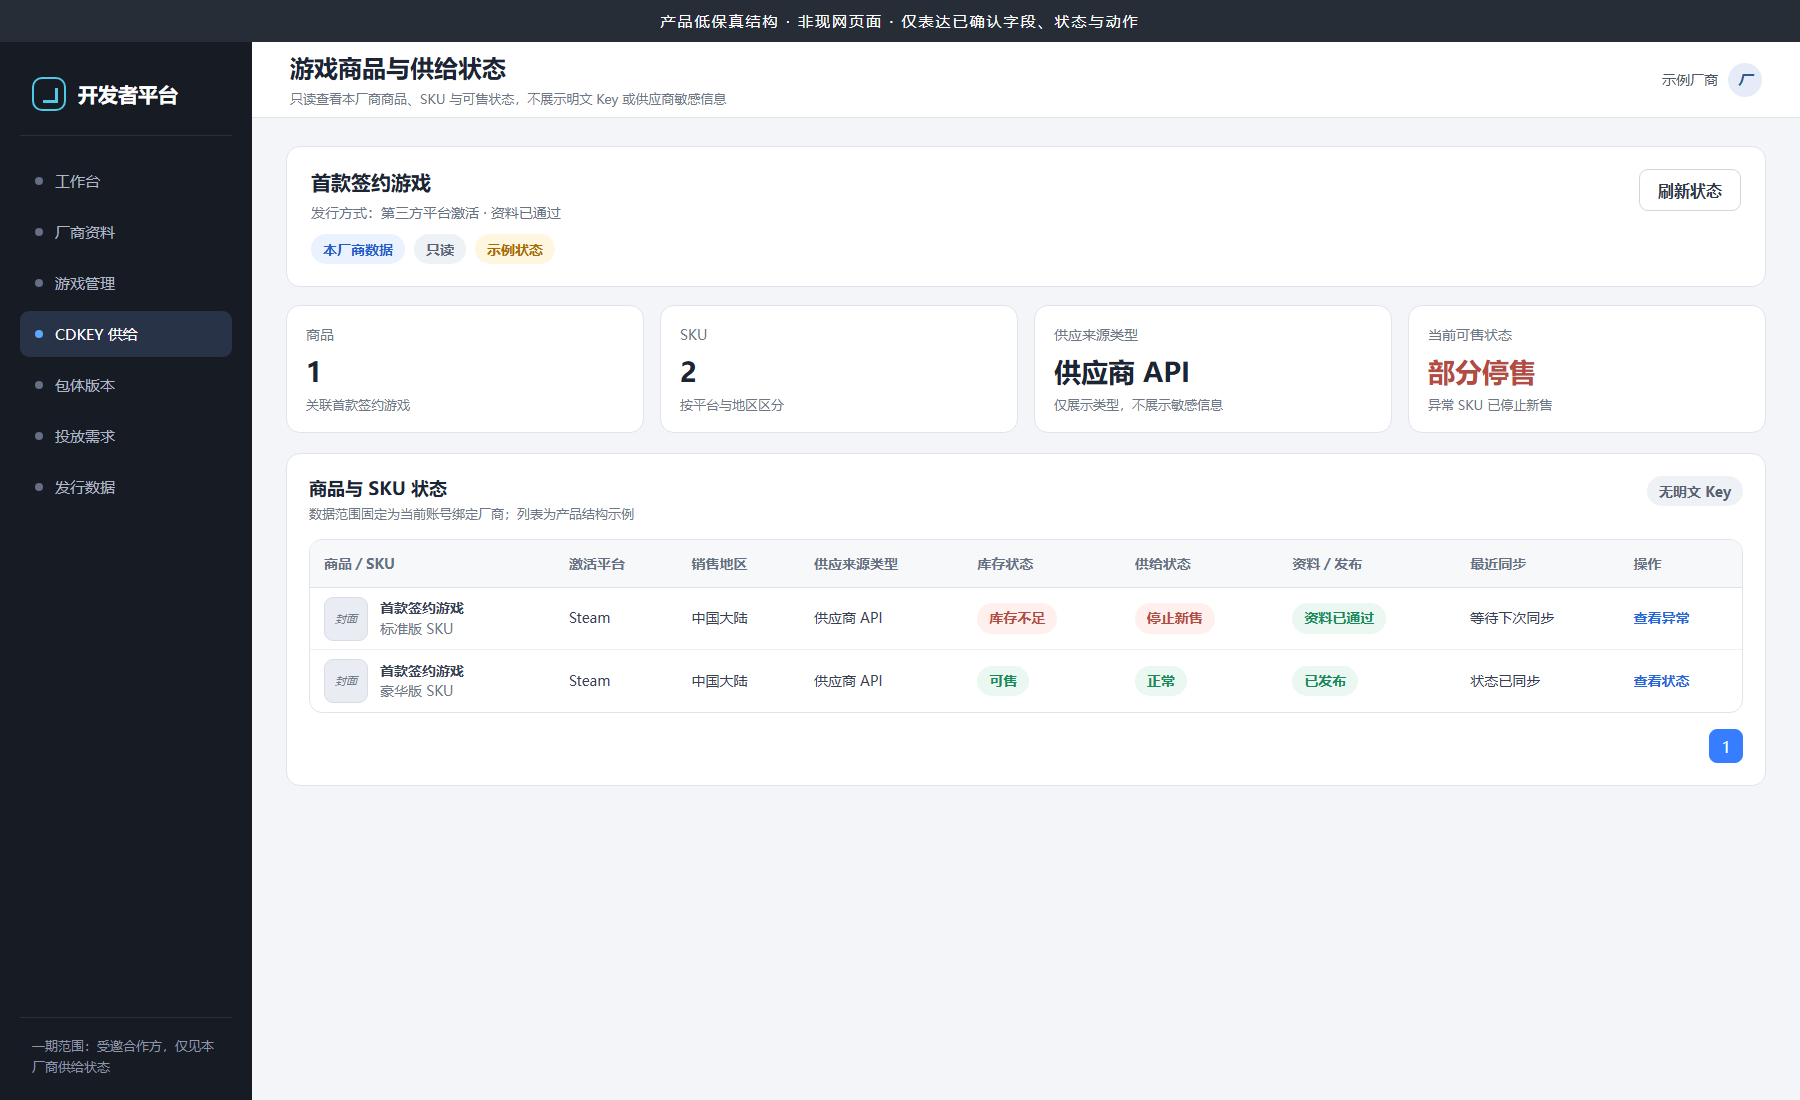
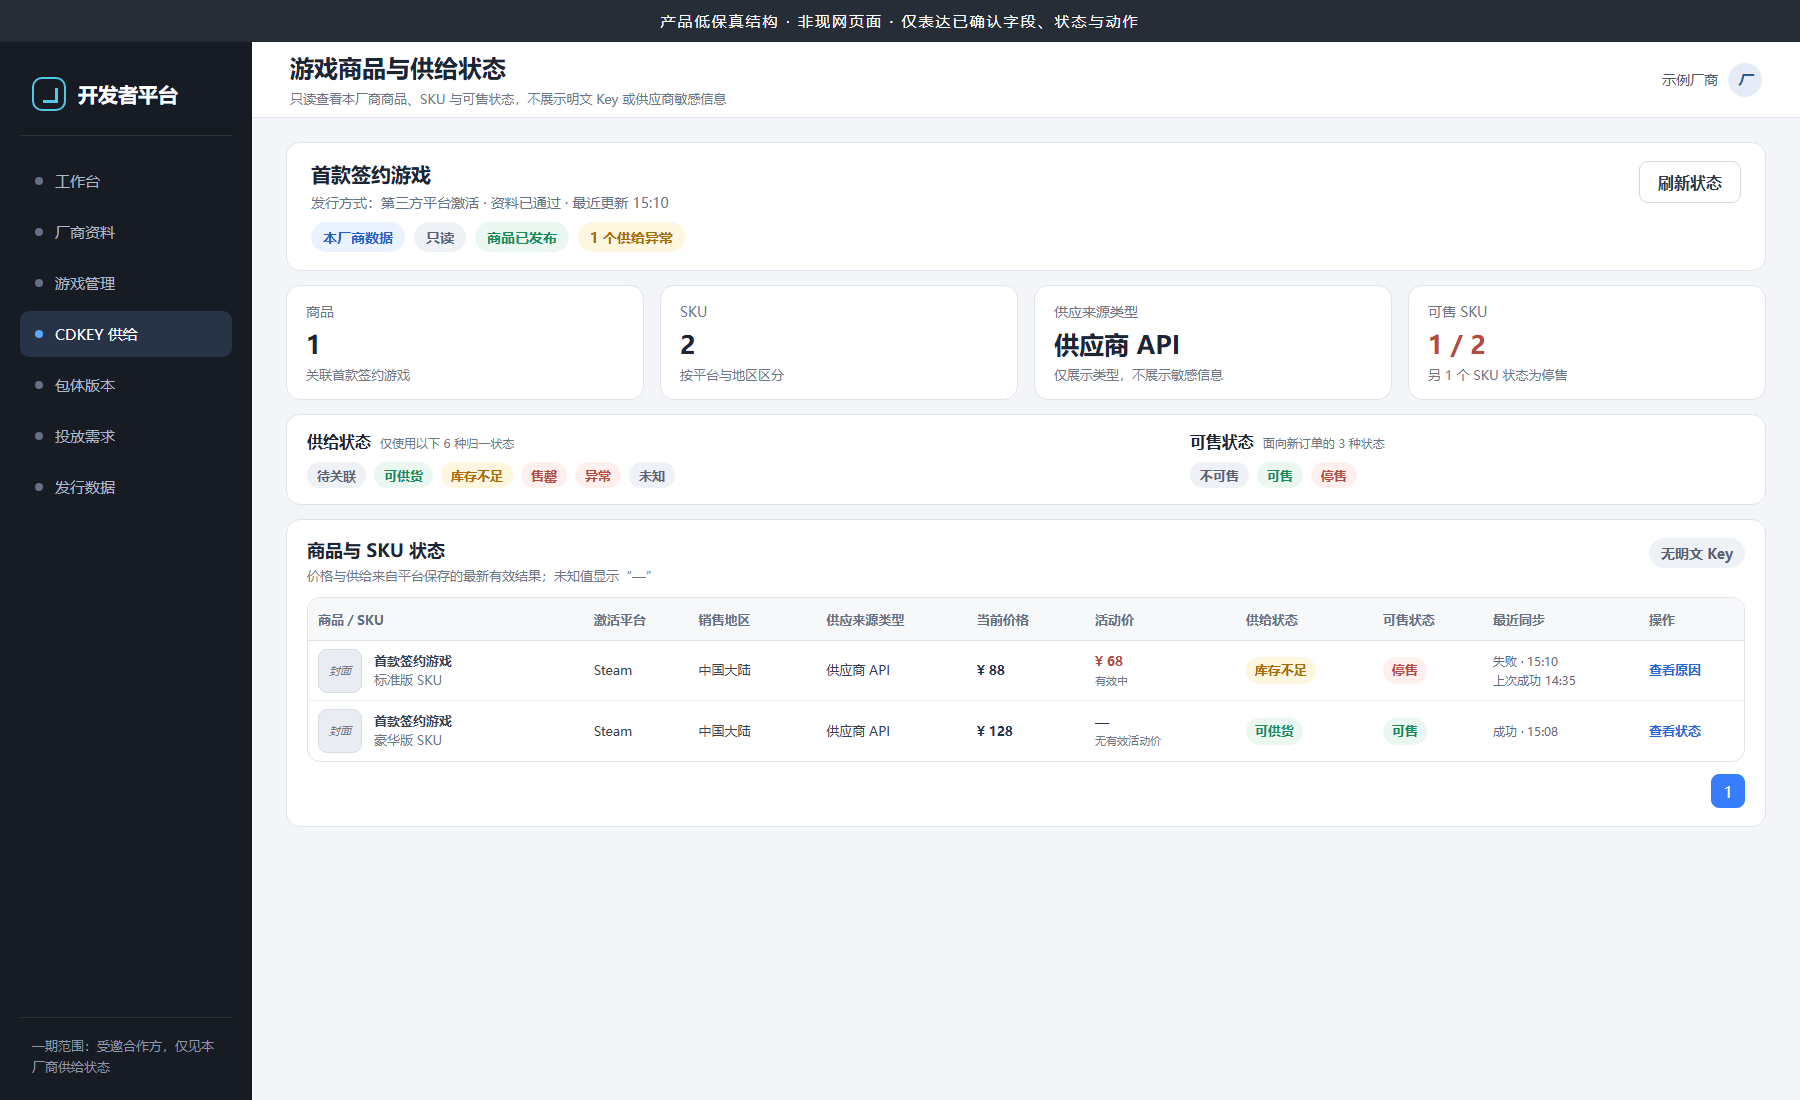
docs: align CDKEY developer supply visual

diff --git a/public/prd/genuine-game-distribution-phase1/03-cdkey-supply/03-developer-supply-status.html b/public/prd/genuine-game-distribution-phase1/03-cdkey-supply/03-developer-supply-status.html
@@ -1,0 +1,169 @@
+<!doctype html>
+<html lang="zh-CN">
+<head>
+  <meta charset="utf-8">
+  <meta name="viewport" content="width=device-width, initial-scale=1">
+  <title>开发者供给状态</title>
+  <link rel="stylesheet" href="cdkey-supply-screens.css">
+  <style>
+    .admin-content{padding-top:24px}
+    .summary-head{padding:18px 24px;margin-bottom:14px}
+    .summary-head h2{margin-bottom:6px}
+    .summary-tags{margin-top:10px}
+    .stats{margin-bottom:14px}
+    .stat{padding:16px 19px}
+    .stat .value{font-size:25px;margin-top:7px}
+    .stat .hint{margin-top:5px}
+    .status-guide{display:grid;grid-template-columns:1.55fr 1fr;gap:22px;padding:16px 20px;margin-bottom:14px}
+    .status-group{min-width:0}
+    .status-group-title{display:flex;align-items:baseline;gap:9px;margin-bottom:10px}
+    .status-group-title h2{font-size:16px;margin:0}
+    .status-group-title span{font-size:12px;color:var(--muted)}
+    .status-items{display:flex;align-items:center;gap:8px;flex-wrap:wrap}
+    .status-items .badge{min-height:26px;padding:4px 10px;font-size:13px}
+    .section-card{padding:18px 20px}
+    .section-title{margin-bottom:13px}
+    .table{table-layout:fixed}
+    .table th{height:43px;padding:0 10px;font-size:13px;white-space:nowrap}
+    .table td{height:60px;padding:0 10px;font-size:13px}
+    .table .badge{min-height:27px;padding:4px 9px;font-size:13px}
+    .table .product-col{width:205px}
+    .table .platform-col{width:78px}
+    .table .region-col{width:95px}
+    .table .source-col{width:112px}
+    .table .price-col{width:88px}
+    .table .promo-col{width:112px}
+    .table .supply-col{width:102px}
+    .table .sale-col{width:82px}
+    .table .sync-col{width:116px}
+    .table .action-col{width:78px}
+    .price{font-weight:750;color:#263247;white-space:nowrap}
+    .price.promo{color:#b34b43}
+    .price-note{display:block;margin-top:2px;font-size:11px;color:var(--muted);white-space:nowrap}
+    .sync-time{font-size:12px;color:#5f6b7d;line-height:1.35}
+    .pagination{margin-top:12px}
+  </style>
+</head>
+<body>
+<div class="screen">
+  <div class="admin-shell">
+    <div class="lowfi-strip">产品低保真结构 · 非现网页面 · 仅表达已确认字段、状态与动作</div>
+    <aside class="admin-aside">
+      <div class="admin-brand"><i class="brand-mark"></i>开发者平台</div>
+      <div class="nav-list">
+        <div class="nav-item"><i class="nav-dot"></i>工作台</div>
+        <div class="nav-item"><i class="nav-dot"></i>厂商资料</div>
+        <div class="nav-item"><i class="nav-dot"></i>游戏管理</div>
+        <div class="nav-item active"><i class="nav-dot"></i>CDKEY 供给</div>
+        <div class="nav-item"><i class="nav-dot"></i>包体版本</div>
+        <div class="nav-item"><i class="nav-dot"></i>投放需求</div>
+        <div class="nav-item"><i class="nav-dot"></i>发行数据</div>
+      </div>
+      <div class="aside-bottom">一期范围：受邀合作方，仅见本厂商供给状态</div>
+    </aside>
+
+    <main class="admin-main">
+      <header class="admin-top">
+        <div>
+          <h1>游戏商品与供给状态</h1>
+          <div class="sub">只读查看本厂商商品、SKU 与可售状态，不展示明文 Key 或供应商敏感信息</div>
+        </div>
+        <div class="account">示例厂商<i class="avatar">厂</i></div>
+      </header>
+
+      <div class="admin-content">
+        <section class="card summary-head">
+          <div>
+            <h2>首款签约游戏</h2>
+            <p>发行方式：第三方平台激活 · 资料已通过 · 最近更新 15:10</p>
+            <div class="summary-tags">
+              <span class="badge blue">本厂商数据</span>
+              <span class="badge gray">只读</span>
+              <span class="badge green">商品已发布</span>
+              <span class="badge amber">1 个供给异常</span>
+            </div>
+          </div>
+          <div class="actions"><button class="btn">刷新状态</button></div>
+        </section>
+
+        <div class="stats">
+          <section class="card stat">
+            <div class="label">商品</div><div class="value">1</div><div class="hint">关联首款签约游戏</div>
+          </section>
+          <section class="card stat">
+            <div class="label">SKU</div><div class="value">2</div><div class="hint">按平台与地区区分</div>
+          </section>
+          <section class="card stat">
+            <div class="label">供应来源类型</div><div class="value">供应商 API</div><div class="hint">仅展示类型，不展示敏感信息</div>
+          </section>
+          <section class="card stat">
+            <div class="label">可售 SKU</div><div class="value" style="color:#b34b43">1 / 2</div><div class="hint">另 1 个 SKU 状态为停售</div>
+          </section>
+        </div>
+
+        <section class="card status-guide" aria-label="状态口径">
+          <div class="status-group">
+            <div class="status-group-title"><h2>供给状态</h2><span>仅使用以下 6 种归一状态</span></div>
+            <div class="status-items">
+              <span class="badge gray">待关联</span>
+              <span class="badge green">可供货</span>
+              <span class="badge amber">库存不足</span>
+              <span class="badge red">售罄</span>
+              <span class="badge red">异常</span>
+              <span class="badge gray">未知</span>
+            </div>
+          </div>
+          <div class="status-group">
+            <div class="status-group-title"><h2>可售状态</h2><span>面向新订单的 3 种状态</span></div>
+            <div class="status-items">
+              <span class="badge gray">不可售</span>
+              <span class="badge green">可售</span>
+              <span class="badge red">停售</span>
+            </div>
+          </div>
+        </section>
+
+        <section class="card section-card">
+          <div class="section-title">
+            <div><h2>商品与 SKU 状态</h2><p>价格与供给来自平台保存的最新有效结果；未知值显示“—”</p></div>
+            <span class="badge gray">无明文 Key</span>
+          </div>
+          <table class="table">
+            <colgroup>
+              <col class="product-col"><col class="platform-col"><col class="region-col"><col class="source-col">
+              <col class="price-col"><col class="promo-col"><col class="supply-col"><col class="sale-col">
+              <col class="sync-col"><col class="action-col">
+            </colgroup>
+            <thead>
+              <tr>
+                <th>商品／SKU</th><th>激活平台</th><th>销售地区</th><th>供应来源类型</th>
+                <th>当前价格</th><th>活动价</th><th>供给状态</th><th>可售状态</th><th>最近同步</th><th>操作</th>
+              </tr>
+            </thead>
+            <tbody>
+              <tr>
+                <td><div class="object"><i class="thumb">封面</i><div><b>首款签约游戏</b><br><span class="muted">标准版 SKU</span></div></div></td>
+                <td>Steam</td><td>中国大陆</td><td>供应商 API</td>
+                <td><span class="price">¥ 88</span></td>
+                <td><span class="price promo">¥ 68</span><span class="price-note">有效中</span></td>
+                <td><span class="badge amber">库存不足</span></td><td><span class="badge red">停售</span></td>
+                <td><span class="sync-time">失败 · 15:10<br>上次成功 14:35</span></td><td><span class="link">查看原因</span></td>
+              </tr>
+              <tr>
+                <td><div class="object"><i class="thumb">封面</i><div><b>首款签约游戏</b><br><span class="muted">豪华版 SKU</span></div></div></td>
+                <td>Steam</td><td>中国大陆</td><td>供应商 API</td>
+                <td><span class="price">¥ 128</span></td>
+                <td><span class="price">—</span><span class="price-note">无有效活动价</span></td>
+                <td><span class="badge green">可供货</span></td><td><span class="badge green">可售</span></td>
+                <td><span class="sync-time">成功 · 15:08</span></td><td><span class="link">查看状态</span></td>
+              </tr>
+            </tbody>
+          </table>
+          <div class="pagination"><button class="page-btn active">1</button></div>
+        </section>
+      </div>
+    </main>
+  </div>
+</div>
+</body>
+</html>
